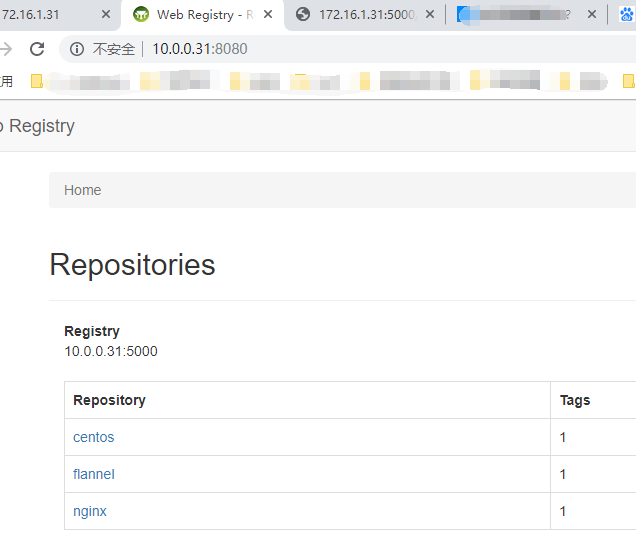
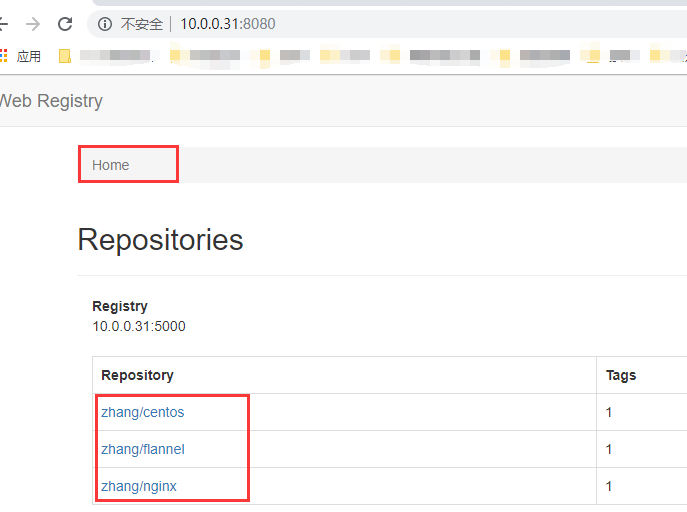
Site updated: 2020-04-30 20:34:57

diff --git a/2020/04/29/docker05/index.html b/2020/04/29/docker05/index.html
@@ -94,7 +94,7 @@
 <meta property="og:image" content="http://www.zhangblog.com/uploads/docker/docker-00.jpg">
 <meta property="og:image" content="http://www.zhangblog.com/uploads/docker/docker-05-01.png">
 <meta property="og:image" content="http://www.zhangblog.com/uploads/docker/docker-05-02.png">
-<meta property="og:updated_time" content="2020-04-29T04:45:17.839Z">
+<meta property="og:updated_time" content="2020-04-30T12:34:31.884Z">
 <meta name="twitter:card" content="summary">
 <meta name="twitter:title" content="Dcoker如何搭建私有镜像仓库">
 <meta name="twitter:description" content="Docker如何搭建私有镜像仓库，与如何访问私有镜像仓库，删除私有镜像仓库镜像  机器规划   服务器名称(hostname) 操作系统版本 内网IP 外网IP(模拟) 安装软件    docker01 CentOS7.7 172.16.1.31 10.0.0.31 docker   docker02 CentOS7.7 172.16.1.32 10.0.0.32 docker   说明：在d">
@@ -418,7 +418,7 @@
                   <span class="post-meta-item-text">字数统计&#58;</span>
                 
                 <span title="字数统计">
-                  1.8k
+                  1.9k
                 </span>
               
 
@@ -522,14 +522,14 @@
 
 <h1 id="实现http访问私有仓库"><a href="#实现http访问私有仓库" class="headerlink" title="实现http访问私有仓库"></a>实现http访问私有仓库</h1><p>Docker 默认不允许非 HTTPS 方式推送镜像。我们可以通过 Docker 的配置选项来取消这个限制。</p>
 <p><font color="red">如果直接【上传】或【拉取】镜像会失败，因为默认为https方式</font>，得到提示信息如下：</p>
-<figure class="highlight plain"><table><tr><td class="gutter"><pre><span class="line">1</span><br><span class="line">2</span><br><span class="line">3</span><br><span class="line">4</span><br><span class="line">5</span><br></pre></td><td class="code"><pre><span class="line">[root@docker02 ~]# docker push 172.16.1.31:5000/nginx:1.17   # 推动镜像失败</span><br><span class="line">The push refers to repository [172.16.1.31:5000/nginx]</span><br><span class="line">Get https://172.16.1.31:5000/v2/: http: server gave HTTP response to HTTPS client</span><br><span class="line">[root@docker02 ~]# docker pull 172.16.1.31:5000/flannel:v0.12.0-amd64    # 拉取镜像失败</span><br><span class="line">Error response from daemon: Get https://172.16.1.31:5000/v2/: http: server gave HTTP response to HTTPS client</span><br></pre></td></tr></table></figure>
+<figure class="highlight plain"><table><tr><td class="gutter"><pre><span class="line">1</span><br><span class="line">2</span><br><span class="line">3</span><br><span class="line">4</span><br><span class="line">5</span><br></pre></td><td class="code"><pre><span class="line">[root@docker02 ~]# docker push 172.16.1.31:5000/zhang/nginx:1.17   # 推动镜像失败</span><br><span class="line">The push refers to repository [172.16.1.31:5000/zhang/nginx]</span><br><span class="line">Get https://172.16.1.31:5000/v2/: http: server gave HTTP response to HTTPS client</span><br><span class="line">[root@docker02 ~]# docker pull 172.16.1.31:5000/zhang/flannel:v0.12.0-amd64    # 拉取镜像失败</span><br><span class="line">Error response from daemon: Get https://172.16.1.31:5000/v2/: http: server gave HTTP response to HTTPS client</span><br></pre></td></tr></table></figure>
 
 <h2 id="实现http上传方式一"><a href="#实现http上传方式一" class="headerlink" title="实现http上传方式一"></a>实现http上传方式一</h2><p>添加如下配置，如果文件不存在则添加，在docker01和docker02机器都要添加，因为这两台机器都可能<font color="red">向仓库推送或拉取</font>镜像。</p>
 <figure class="highlight plain"><table><tr><td class="gutter"><pre><span class="line">1</span><br><span class="line">2</span><br><span class="line">3</span><br><span class="line">4</span><br></pre></td><td class="code"><pre><span class="line">[root@docker02 ~]# vim /etc/docker/daemon.json</span><br><span class="line">&#123;</span><br><span class="line">  &quot;insecure-registries&quot;: [&quot;172.16.1.31:5000&quot;]</span><br><span class="line">&#125;</span><br></pre></td></tr></table></figure>
 
 <p>说明：该文件必须符合 json 规范，否则 Docker 将不能启动。</p>
 <p>重启docker服务并向镜像中心推送镜像</p>
-<figure class="highlight plain"><table><tr><td class="gutter"><pre><span class="line">1</span><br><span class="line">2</span><br><span class="line">3</span><br><span class="line">4</span><br><span class="line">5</span><br><span class="line">6</span><br><span class="line">7</span><br><span class="line">8</span><br><span class="line">9</span><br><span class="line">10</span><br><span class="line">11</span><br></pre></td><td class="code"><pre><span class="line">[root@docker02 ~]# systemctl restart docker.service  </span><br><span class="line">[root@docker02 ~]# docker images </span><br><span class="line">REPOSITORY                TAG     IMAGE ID        CREATED       SIZE</span><br><span class="line">172.16.1.31:5000/nginx    1.17    ed21b7a8aee9    2 weeks ago   127MB</span><br><span class="line"># 推送镜像到镜像仓库【注意镜像名称】</span><br><span class="line">[root@docker02 ~]# docker push 172.16.1.31:5000/nginx:1.17</span><br><span class="line">The push refers to repository [172.16.1.31:5000/nginx]</span><br><span class="line">d37eecb5b769: Layer already exists </span><br><span class="line">99134ec7f247: Layer already exists </span><br><span class="line">c3a984abe8a8: Layer already exists </span><br><span class="line">1.17: digest: sha256:7ac7819e1523911399b798309025935a9968b277d86d50e5255465d6592c0266 size: 948</span><br></pre></td></tr></table></figure>
+<figure class="highlight plain"><table><tr><td class="gutter"><pre><span class="line">1</span><br><span class="line">2</span><br><span class="line">3</span><br><span class="line">4</span><br><span class="line">5</span><br><span class="line">6</span><br><span class="line">7</span><br><span class="line">8</span><br><span class="line">9</span><br><span class="line">10</span><br><span class="line">11</span><br></pre></td><td class="code"><pre><span class="line">[root@docker02 ~]# systemctl restart docker.service  </span><br><span class="line">[root@docker02 ~]# docker images </span><br><span class="line">REPOSITORY                TAG     IMAGE ID        CREATED       SIZE</span><br><span class="line">172.16.1.31:5000/zhang/nginx    1.17    ed21b7a8aee9    2 weeks ago   127MB</span><br><span class="line"># 推送镜像到镜像仓库【注意镜像名称】</span><br><span class="line">[root@docker02 ~]# docker push 172.16.1.31:5000/zhang/nginx:1.17</span><br><span class="line">The push refers to repository [172.16.1.31:5000/zhang/nginx]</span><br><span class="line">d37eecb5b769: Layer already exists </span><br><span class="line">99134ec7f247: Layer already exists </span><br><span class="line">c3a984abe8a8: Layer already exists </span><br><span class="line">1.17: digest: sha256:7ac7819e1523911399b798309025935a9968b277d86d50e5255465d6592c0266 size: 948</span><br></pre></td></tr></table></figure>
 
 <p>可见推送成功。</p>
 <h2 id="实现http上传方式二"><a href="#实现http上传方式二" class="headerlink" title="实现http上传方式二"></a>实现http上传方式二</h2><p>在启动docker server时增加启动参数为默认使用http访问。在docker01和docker02机器都要添加，因为这两台机器都可能<font color="red">向仓库推送或拉取</font>镜像。修改docker启动配置文件：</p>
@@ -539,13 +539,13 @@
 <figure class="highlight plain"><table><tr><td class="gutter"><pre><span class="line">1</span><br></pre></td><td class="code"><pre><span class="line">ExecStart=/usr/bin/dockerd --insecure-registry 172.16.1.31:5000</span><br></pre></td></tr></table></figure>
 
 <p>重启docker服务并向镜像中心推送镜像</p>
-<figure class="highlight plain"><table><tr><td class="gutter"><pre><span class="line">1</span><br><span class="line">2</span><br><span class="line">3</span><br><span class="line">4</span><br><span class="line">5</span><br><span class="line">6</span><br><span class="line">7</span><br><span class="line">8</span><br><span class="line">9</span><br><span class="line">10</span><br></pre></td><td class="code"><pre><span class="line">[root@docker02 ~]# systemctl daemon-reload</span><br><span class="line">[root@docker02 ~]# systemctl restart docker</span><br><span class="line">[root@docker02 ~]# docker images </span><br><span class="line">REPOSITORY                TAG       IMAGE ID       CREATED       SIZE</span><br><span class="line">172.16.1.31:5000/centos   7.7.1908  08d05d1d5859   5 months ago  204MB</span><br><span class="line"># 推送镜像到镜像仓库【注意镜像名称】</span><br><span class="line">[root@docker02 ~]# docker push 172.16.1.31:5000/centos:7.7.1908</span><br><span class="line">The push refers to repository [172.16.1.31:5000/centos]</span><br><span class="line">034f282942cd: Pushed </span><br><span class="line">7.7.1908: digest: sha256:8f2c78ca3141051eef77fb083066222abf20330a2345c970a5a61427aeb2dc7b size: 529</span><br></pre></td></tr></table></figure>
+<figure class="highlight plain"><table><tr><td class="gutter"><pre><span class="line">1</span><br><span class="line">2</span><br><span class="line">3</span><br><span class="line">4</span><br><span class="line">5</span><br><span class="line">6</span><br><span class="line">7</span><br><span class="line">8</span><br><span class="line">9</span><br><span class="line">10</span><br></pre></td><td class="code"><pre><span class="line">[root@docker02 ~]# systemctl daemon-reload</span><br><span class="line">[root@docker02 ~]# systemctl restart docker</span><br><span class="line">[root@docker02 ~]# docker images </span><br><span class="line">REPOSITORY                TAG       IMAGE ID       CREATED       SIZE</span><br><span class="line">172.16.1.31:5000/zhang/centos   7.7.1908  08d05d1d5859   5 months ago  204MB</span><br><span class="line"># 推送镜像到镜像仓库【注意镜像名称】</span><br><span class="line">[root@docker02 ~]# docker push 172.16.1.31:5000/zhang/centos:7.7.1908</span><br><span class="line">The push refers to repository [172.16.1.31:5000/zhang/centos]</span><br><span class="line">034f282942cd: Pushed </span><br><span class="line">7.7.1908: digest: sha256:8f2c78ca3141051eef77fb083066222abf20330a2345c970a5a61427aeb2dc7b size: 529</span><br></pre></td></tr></table></figure>
 
 <p>可见推送成功。</p>
 <h1 id="registry-web浏览器访问"><a href="#registry-web浏览器访问" class="headerlink" title="registry-web浏览器访问"></a>registry-web浏览器访问</h1><figure class="highlight plain"><table><tr><td class="gutter"><pre><span class="line">1</span><br></pre></td><td class="code"><pre><span class="line">http://10.0.0.31:8080/</span><br></pre></td></tr></table></figure>
 
 <p><img src="/uploads/docker/docker-05-01.png" alt="image"></p>
-<h1 id="Registry删除镜像、垃圾回收"><a href="#Registry删除镜像、垃圾回收" class="headerlink" title="Registry删除镜像、垃圾回收"></a>Registry删除镜像、垃圾回收</h1><h2 id="上传镜像"><a href="#上传镜像" class="headerlink" title="上传镜像"></a>上传镜像</h2><figure class="highlight plain"><table><tr><td class="gutter"><pre><span class="line">1</span><br><span class="line">2</span><br><span class="line">3</span><br><span class="line">4</span><br><span class="line">5</span><br><span class="line">6</span><br></pre></td><td class="code"><pre><span class="line">[root@docker02 ~]# docker push 172.16.1.31:5000/nginx:1.17</span><br><span class="line">The push refers to repository [172.16.1.31:5000/nginx]</span><br><span class="line">d37eecb5b769: Layer already exists </span><br><span class="line">99134ec7f247: Layer already exists </span><br><span class="line">c3a984abe8a8: Layer already exists </span><br><span class="line">1.17: digest: sha256:7ac7819e1523911399b798309025935a9968b277d86d50e5255465d6592c0266 size: 948</span><br></pre></td></tr></table></figure>
+<h1 id="Registry删除镜像、垃圾回收"><a href="#Registry删除镜像、垃圾回收" class="headerlink" title="Registry删除镜像、垃圾回收"></a>Registry删除镜像、垃圾回收</h1><h2 id="上传镜像"><a href="#上传镜像" class="headerlink" title="上传镜像"></a>上传镜像</h2><figure class="highlight plain"><table><tr><td class="gutter"><pre><span class="line">1</span><br><span class="line">2</span><br><span class="line">3</span><br><span class="line">4</span><br><span class="line">5</span><br><span class="line">6</span><br></pre></td><td class="code"><pre><span class="line">[root@docker02 ~]# docker push 172.16.1.31:5000/zhang/nginx:1.17</span><br><span class="line">The push refers to repository [172.16.1.31:5000/zhang/nginx]</span><br><span class="line">d37eecb5b769: Layer already exists </span><br><span class="line">99134ec7f247: Layer already exists </span><br><span class="line">c3a984abe8a8: Layer already exists </span><br><span class="line">1.17: digest: sha256:7ac7819e1523911399b798309025935a9968b277d86d50e5255465d6592c0266 size: 948</span><br></pre></td></tr></table></figure>
 
 <p>说明：通过上面的方式可以获取<font color="red">镜像的sha256 信息</font>。</p>
 <div style="font-size:17px"><b>查看数据大小，进入仓库容器中，通过du命令查看大小</b></div>
@@ -559,7 +559,7 @@
 <p>reference: 镜像对应sha256值</p>
 <div style="font-size:17px"><b>发送请求，删除刚才上传的镜像【注意格式】</b></div>
 
-<figure class="highlight plain"><table><tr><td class="gutter"><pre><span class="line">1</span><br><span class="line">2</span><br><span class="line">3</span><br><span class="line">4</span><br><span class="line">5</span><br><span class="line">6</span><br><span class="line">7</span><br></pre></td><td class="code"><pre><span class="line">[root@docker02 ~]# curl -I -X DELETE http://172.16.1.31:5000/v2/nginx/manifests/sha256:7ac7819e1523911399b798309025935a9968b277d86d50e5255465d6592c0266</span><br><span class="line">HTTP/1.1 202 Accepted</span><br><span class="line">Docker-Distribution-Api-Version: registry/2.0</span><br><span class="line">X-Content-Type-Options: nosniff</span><br><span class="line">Date: Tue, 21 Apr 2020 05:11:14 GMT</span><br><span class="line">Content-Length: 0</span><br><span class="line">Content-Type: text/plain; charset=utf-8</span><br></pre></td></tr></table></figure>
+<figure class="highlight plain"><table><tr><td class="gutter"><pre><span class="line">1</span><br><span class="line">2</span><br><span class="line">3</span><br><span class="line">4</span><br><span class="line">5</span><br><span class="line">6</span><br><span class="line">7</span><br></pre></td><td class="code"><pre><span class="line">[root@docker02 ~]# curl -I -X DELETE http://172.16.1.31:5000/v2/zhang/nginx/manifests/sha256:7ac7819e1523911399b798309025935a9968b277d86d50e5255465d6592c0266</span><br><span class="line">HTTP/1.1 202 Accepted</span><br><span class="line">Docker-Distribution-Api-Version: registry/2.0</span><br><span class="line">X-Content-Type-Options: nosniff</span><br><span class="line">Date: Tue, 21 Apr 2020 05:11:14 GMT</span><br><span class="line">Content-Length: 0</span><br><span class="line">Content-Type: text/plain; charset=utf-8</span><br></pre></td></tr></table></figure>
 
 <h2 id="查看镜像"><a href="#查看镜像" class="headerlink" title="查看镜像"></a>查看镜像</h2><figure class="highlight plain"><table><tr><td class="gutter"><pre><span class="line">1</span><br></pre></td><td class="code"><pre><span class="line">http://10.0.0.31:8080/</span><br></pre></td></tr></table></figure>
 

diff --git a/index.html b/index.html
@@ -630,7 +630,7 @@
                   <span class="post-meta-item-text">字数统计&#58;</span>
                 
                 <span title="字数统计">
-                  1.8k
+                  1.9k
                 </span>
               
 
